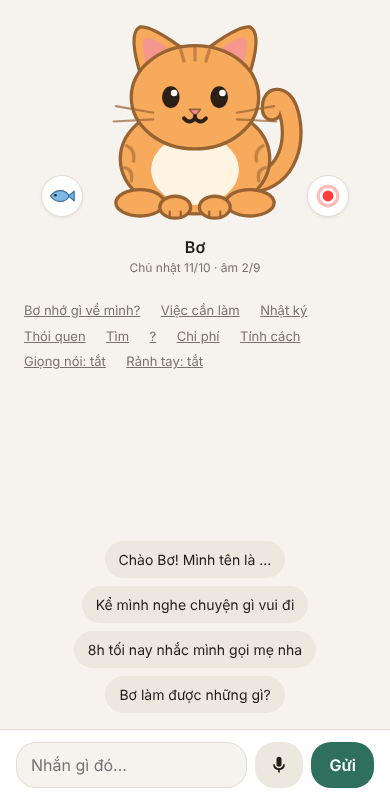
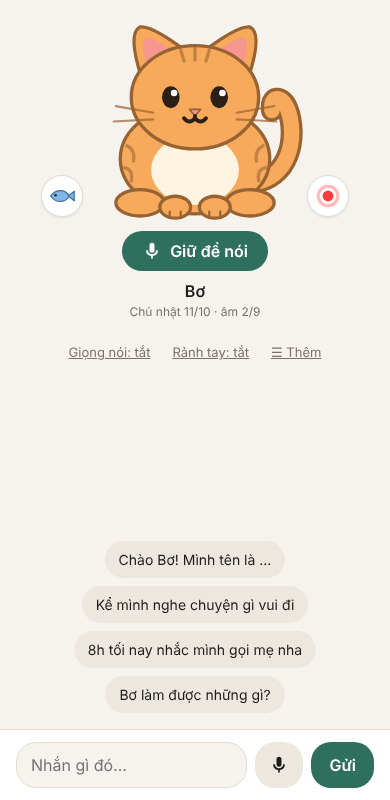
Đầu trang gọn: gom các nút chữ vào menu ☰ Thêm, mèo và khung chat rộng hơn trên điện thoại
Claude-Session: https://claude.ai/code/session_01EHPWeWuhYgNzfQWiTGs5rf

Changed region(s): [[0.0615, 0.2812, 0.8308, 0.4688]]

diff --git a/web/index.html b/web/index.html
@@ -55,6 +55,10 @@
     font: inherit; background: var(--bg); color: var(--text); max-height: 120px; }
   button { border: none; border-radius: 20px; padding: 0 18px; background: var(--me); color: var(--me-text); font: inherit; font-weight: 600; cursor: pointer; }
   button:disabled { opacity: .5; cursor: default; }
+  .nut-hang { display: flex; flex-wrap: wrap; justify-content: center; gap: 2px 6px; }
+  .menu-ds { display: flex; flex-direction: column; margin-bottom: 8px; }
+  .menu-ds .link { text-align: left; font-size: 16px; color: var(--text); text-decoration: none; padding: 12px 8px; border-bottom: 1px solid var(--border); border-radius: 0; }
+  .menu-ds .link[hidden] { display: none; }
   .link { background: none; color: var(--muted); font-size: 13px; padding: 2px 8px; text-decoration: underline; font-weight: 400; }
   dialog { border: 1px solid var(--border); border-radius: 16px; background: var(--panel); color: var(--text);
     width: min(480px, calc(100% - 32px)); max-height: 80vh; padding: 16px; }
@@ -142,19 +146,10 @@
     <div class="name">Bơ</div>
     <div class="lich" id="lich"></div>
     <div class="status" id="status"></div>
-    <div>
-      <button class="link" id="openMem" type="button">Bơ nhớ gì về mình?</button>
-      <button class="link" id="openTodo" type="button">Việc cần làm</button>
-      <button class="link" id="openDiary" type="button">Nhật ký</button>
-      <button class="link" id="openHabit" type="button">Thói quen</button>
-      <button class="link" id="openSearch" type="button">Tìm</button>
-      <button class="link" id="openHelp" type="button" aria-label="Bơ làm được gì?">?</button>
-      <button class="link" id="openCost" type="button">Chi phí</button>
-      <button class="link" id="openPersona" type="button">Tính cách</button>
+    <div class="nut-hang">
       <button class="link" id="voiceBtn" type="button" aria-pressed="false">Giọng nói: tắt</button>
-      <button class="link" id="rateBtn" type="button" hidden>Tốc độ đọc: vừa</button>
-      <button class="link" id="pickVoiceBtn" type="button" hidden>Giọng</button>
       <button class="link" id="handsBtn" type="button" aria-pressed="false" hidden>Rảnh tay: tắt</button>
+      <button class="link" id="openMenu" type="button" aria-haspopup="dialog">☰ Thêm</button>
     </div>
   </header>
   <main id="log" aria-live="polite"></main>
@@ -166,6 +161,21 @@
     <button id="send" type="submit" disabled>Gửi</button>
   </form>
 </div>
+<dialog id="menu" class="menu" aria-label="Thêm">
+  <div class="menu-ds">
+    <button class="link" id="openMem" type="button">Bơ nhớ gì về mình?</button>
+    <button class="link" id="openTodo" type="button">Việc cần làm</button>
+    <button class="link" id="openDiary" type="button">Nhật ký</button>
+    <button class="link" id="openHabit" type="button">Thói quen</button>
+    <button class="link" id="openSearch" type="button">Tìm chuyện cũ</button>
+    <button class="link" id="openPersona" type="button">Tính cách</button>
+    <button class="link" id="openCost" type="button">Chi phí</button>
+    <button class="link giu-mo" id="rateBtn" type="button" hidden>Tốc độ đọc: vừa</button>
+    <button class="link giu-mo" id="pickVoiceBtn" type="button" hidden>Giọng</button>
+    <button class="link" id="openHelp" type="button" aria-label="Bơ làm được gì?">Bơ làm được gì? · Cài đặt</button>
+  </div>
+  <div class="row"><span></span><button id="closeMenu" type="button">Đóng</button></div>
+</dialog>
 <dialog id="mem">
   <h2>Bơ nhớ gì về bạn</h2>
   <p>Sửa/xóa những điều sai, hoặc tự thêm điều bạn muốn Bơ nhớ.</p>
@@ -229,7 +239,7 @@
   <p id="stats"></p>
   <div id="moods" class="moods" hidden></div>
   <h2>Bơ làm được gì?</h2>
-  <p>Cứ nhắn tự nhiên như với bạn bè. Vài mẹo:</p>
+  <p>Cứ nhắn tự nhiên như với bạn bè. Các mục (Bơ nhớ gì, Việc cần làm, Nhật ký, Thói quen, Tìm, Chi phí, Tính cách) nằm trong nút "☰ Thêm". Vài mẹo:</p>
   <ul class="plain">
     <li><b>Chơi với Bơ (miễn phí):</b> vuốt đầu/lưng để Bơ rừ rừ, gãi cằm, chạm tai, chọc bụng (chọc nhiều quá là Bơ dỗi đó). Nút con cá: cho Bơ ăn. Nút chấm đỏ: tia laser, rê/kéo ngón tay quanh Bơ.</li>
     <li><b>Nhớ chuyện:</b> kể tên, sở thích, kế hoạch → Bơ tự nhớ. Xem/xóa ở "Bơ nhớ gì về mình?".</li>

diff --git a/web/hop_thoai.js b/web/hop_thoai.js
@@ -132,6 +132,16 @@ document.getElementById('clearMem').onclick = async () => {
   await fetch('/api/facts/all', { method: 'DELETE' }); loadFacts();
 };
 
+// ---- Nút "☰ Thêm": các mục ít dùng nằm trong menu cho đầu trang gọn (mèo + chat rộng hơn trên điện thoại) ----
+const menuDlg = document.getElementById('menu');
+document.getElementById('openMenu').onclick = () => menuDlg.showModal();
+document.getElementById('closeMenu').onclick = () => menuDlg.close();
+menuDlg.addEventListener('click', ev => {
+  if (ev.target === menuDlg) { menuDlg.close(); return; }  // bấm ra ngoài khung
+  const b = ev.target.closest('.menu-ds button');
+  if (b && !b.classList.contains('giu-mo')) menuDlg.close();  // mở mục khác thì đóng menu (nút tốc độ/giọng thì giữ mở)
+}, true);
+
 // ---- Ngủ gật: 3 phút không ai đụng tới thì Bơ nhắm mắt; chạm/gõ/nói là tỉnh ----
 var SLEEP_AFTER = 3 * 60 * 1000;
 var idleTimer = null;

diff --git a/TASKS.md b/TASKS.md
@@ -272,6 +272,11 @@
 - [x] Khi đang nói chuyện bằng giọng: dặn bộ não trả lời ngắn hơn (1–2 câu), không ký hiệu
 - [x] Mèo nghiêng tai lắng nghe khi micro đang bật
 
+## Giai đoạn 50 – Gọn & chắc (Claude tự thêm, trong hướng mèo/chạm/giọng)
+- [x] Gọn đầu trang trên điện thoại: gom các nút chữ (nhớ, việc, nhật ký, thói quen, tìm, chi phí, tính cách...) vào nút "☰ Thêm", chỉ để lại Giọng nói / Rảnh tay → mèo + khung chat rộng hơn
+- [ ] Nút "?" → Tình trạng: báo giọng AI dùng được không (đã thử gần nhất lúc nào, lỗi gì)
+- [ ] Rà soát code giai đoạn 46–49 (mèo, chạm & chơi, giọng AI, giữ để nói), sửa lỗi tìm được
+
 ## Để sau (tạm dừng theo HUONG_PHAT_TRIEN.md)
 Giai đoạn 45 – Chuyện hỏi thăm rõ ràng hơn (chỉ làm khi Tân báo lỗi liên quan):
 - [ ] Xem / xóa "chuyện Bơ định hỏi thăm" trên web (trong "Bơ nhớ gì về mình?"), và báo trong dòng "✓ Bơ đã ghi: sẽ hỏi thăm ..."

diff --git a/PROGRESS.md b/PROGRESS.md
@@ -5,6 +5,11 @@
 - **Góp ý:** ghi vào file `FEEDBACK.md`, phiên sau Claude sẽ xử lý trước.
 - **Lấy bản mới về máy:** `git pull` trong thư mục dự án rồi chạy lại `run.bat`.
 
+## 2026-10-11 17:45 UTC – Giai đoạn 50 (đang làm): đầu trang gọn
+- Các nút chữ (Bơ nhớ gì, Việc cần làm, Nhật ký, Thói quen, Tìm, Chi phí, Tính cách, "?") gom vào nút **"☰ Thêm"**;
+  đầu trang chỉ còn mèo, nút "Giữ để nói", Giọng nói, Rảnh tay → khung chat trên điện thoại rộng gần gấp đôi.
+  Ảnh: `docs/anh/trang-dien-thoai.png`, `docs/anh/menu-them.png`.
+
 ## 2026-10-11 17:40 UTC – Giai đoạn 49 xong: Trò chuyện bằng giọng mượt
 Ảnh: `docs/anh/giu-de-noi.png`.
 - Nút to **"Giữ để nói"** ngay dưới mèo (kiểu bộ đàm): giữ là Bơ nghe, thả tay là gửi. Bấm nhanh quá thì Bơ nhắc "giữ trong lúc nói".
